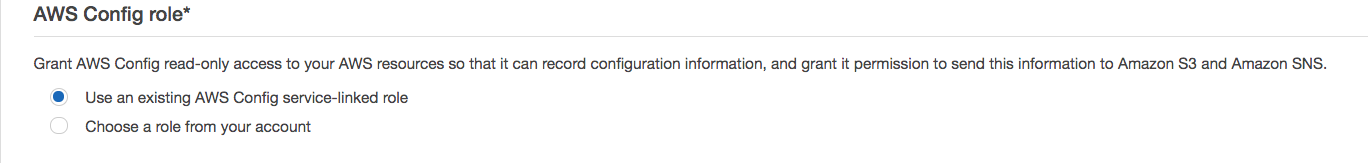
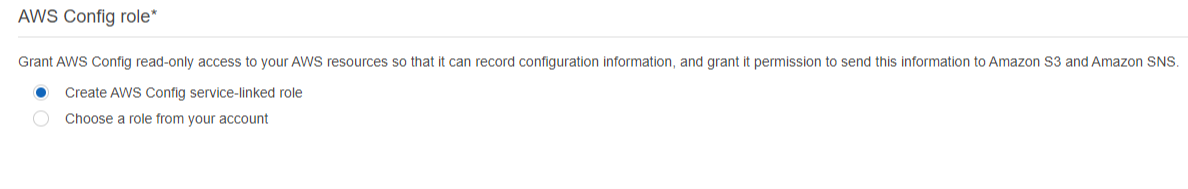
Updated Exercise 6 steps

diff --git a/README.md b/README.md
@@ -367,15 +367,16 @@ In this exercise we will configure a S3 VPC Endpoint and a bucket policy to limi
 1. From the AWS console, click  **Services**  and select  **Config.**
 2. If you haven't used AWS Config previously you will be brought to the Get started page.  If you have already used AWS Config jump to step
 ![](/images/config_4.png)
-3. Go to bottom of page, under AWS Config role, select **Use an existing AWS Config service-linked role**.  
-![](/images/config_6.png)
+3. Go to bottom of page, under AWS Config role, select **Create AWS Config service-linked role**.  If you have already used AWS Config in another region, instead select **Use an existing AWS Config service-linked role**.  
+
+  ![](/images/config_6.png)
 4. Click **Next**.
 5. Click **Skip**.  
 6. Click **Confirm**.  
 **Note**  
 If you receive an error regarding S3, AWS Config was used previously in another region.  Click **Previous**, **Previous**, under **Amazon S3 Bucket**, select **Choose a bucket from your account**.  Bucket name will start with config-bucket. Click **Next**, click **Skip**, click **Confirm**.  
 
-![](/images/config_7.png)
+  ![](/images/config_7.png)
 7. Click **Rules**.  
 8. Click **Add Rule**.
 9. Filter rules by typing **S3** into search box.  
